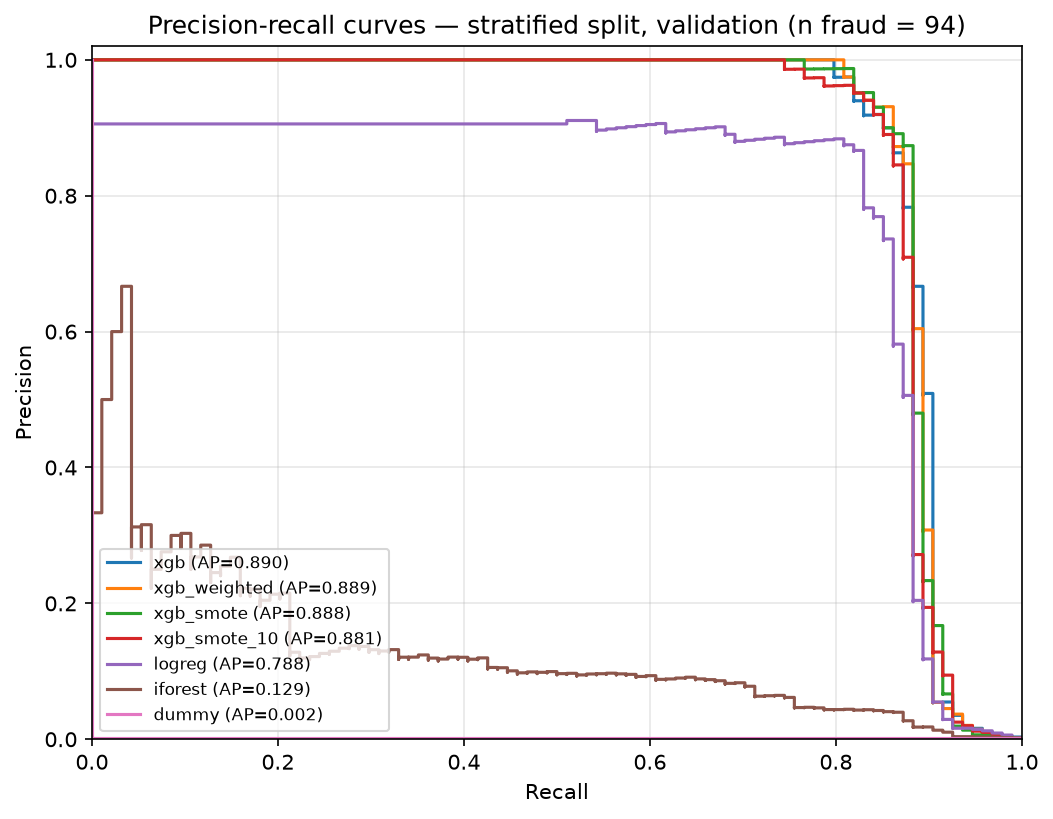
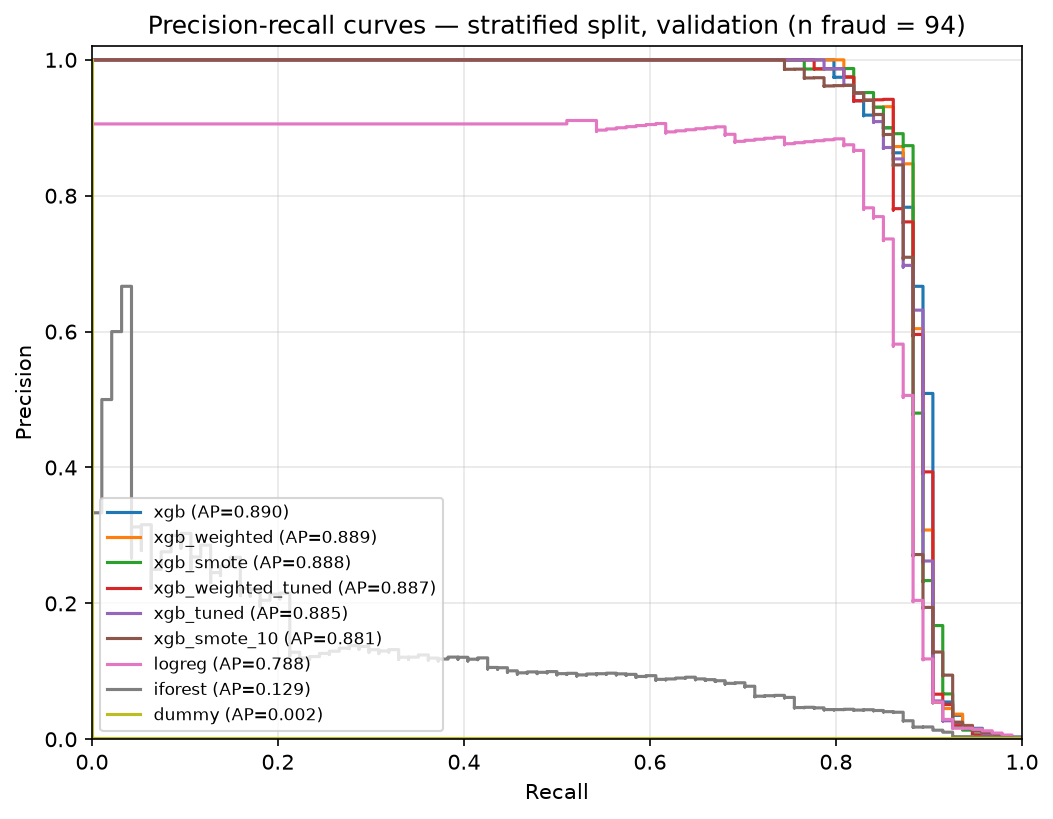
updates

diff --git a/src/fraud_detection/threshold.py b/src/fraud_detection/threshold.py
@@ -1,0 +1,115 @@
+"""Cost-based threshold selection (docs/evaluation.md, "Threshold rule").
+
+Pure functions: build a table of metrics for every candidate threshold, then pick the
+cheapest threshold that still meets the recall target. Used on valid_thr only.
+"""
+
+from __future__ import annotations
+
+from pathlib import Path
+from typing import Any
+
+import numpy as np
+import pandas as pd
+from numpy.typing import ArrayLike
+
+from fraud_detection.metrics import compute_metrics
+
+DEFAULT_GRID: np.ndarray = np.round(np.arange(0.01, 0.96, 0.01), 2)  # 0.01 ... 0.95
+SENSITIVITY_REVIEW_COSTS: tuple[float, ...] = (2.0, 5.0, 20.0)
+
+TABLE_COLUMNS = [
+    "threshold", "recall", "precision", "f1", "alerts_per_1000", "tp", "fp", "fn",
+    "fraud_amount_caught_pct", "missed_fraud_cost", "review_cost_total", "expected_cost",
+]  # fmt: skip
+
+
+def threshold_table(
+    y: ArrayLike,
+    proba: ArrayLike,
+    amounts: ArrayLike,
+    review_cost: float,
+    grid: ArrayLike = DEFAULT_GRID,
+) -> pd.DataFrame:
+    """One row per threshold, every number computed by metrics.compute_metrics.
+
+    expected_cost is split into its two parts:
+    missed_fraud_cost (sum of Amount of missed fraud) + review_cost_total (review_cost x alerts).
+    """
+    rows = []
+    for t in np.asarray(grid, dtype=float):
+        m = compute_metrics(y, proba, float(t), amounts, review_cost)
+        review_total = review_cost * (m["tp"] + m["fp"])
+        rows.append(
+            {
+                **{k: m[k] for k in TABLE_COLUMNS if k in m},
+                "review_cost_total": review_total,
+                "missed_fraud_cost": m["expected_cost"] - review_total,
+            }
+        )
+    return pd.DataFrame(rows)[TABLE_COLUMNS]
+
+
+def choose_threshold(table: pd.DataFrame, target_recall: float) -> dict[str, Any]:
+    """Pick the minimum-expected-cost threshold with recall >= target_recall.
+
+    If no threshold reaches the target, fall back to the highest-recall threshold
+    (cheapest among ties) and flag met_target=False so it gets documented.
+    Remaining ties are broken by the lower threshold.
+
+    Returns the chosen table row as a dict plus "met_target" and "rule".
+    """
+    qualifying = table[table["recall"] >= target_recall]
+    if len(qualifying):
+        pool, met, rule = qualifying, True, f"min expected_cost s.t. recall >= {target_recall}"
+    else:
+        pool = table[table["recall"] == table["recall"].max()]
+        met, rule = False, f"no threshold reaches recall {target_recall}; max recall, min cost"
+    best = pool.sort_values(["expected_cost", "threshold"]).iloc[0]
+    return {**best.to_dict(), "met_target": met, "rule": rule, "target_recall": target_recall}
+
+
+def cost_sensitivity(
+    y: ArrayLike,
+    proba: ArrayLike,
+    amounts: ArrayLike,
+    target_recall: float,
+    review_costs: tuple[float, ...] = SENSITIVITY_REVIEW_COSTS,
+    grid: ArrayLike = DEFAULT_GRID,
+) -> pd.DataFrame:
+    """Repeat the threshold choice for several review costs (the EUR 5 is an assumption)."""
+    rows = []
+    for cost in review_costs:
+        choice = choose_threshold(threshold_table(y, proba, amounts, cost, grid), target_recall)
+        rows.append({"review_cost": cost, **{k: choice[k] for k in ("met_target", *TABLE_COLUMNS)}})
+    return pd.DataFrame(rows)
+
+
+def plot_cost_curve(table: pd.DataFrame, chosen: dict[str, Any], title: str, path: Path) -> None:
+    """Expected cost (and its two parts) vs threshold, with the chosen threshold marked."""
+    import matplotlib
+
+    matplotlib.use("Agg")
+    import matplotlib.pyplot as plt
+
+    fig, (ax_cost, ax_recall) = plt.subplots(2, 1, figsize=(9, 7), sharex=True)
+    ax_cost.plot(table["threshold"], table["expected_cost"], label="expected cost", lw=2)
+    ax_cost.plot(table["threshold"], table["missed_fraud_cost"], "--", label="missed fraud €")
+    ax_cost.plot(table["threshold"], table["review_cost_total"], ":", label="review €")
+    ax_cost.set_ylabel("EUR (validation)")
+    ax_cost.set_title(title)
+    ax_cost.legend()
+
+    ax_recall.plot(table["threshold"], table["recall"], label="recall")
+    ax_recall.plot(table["threshold"], table["precision"], label="precision")
+    ax_recall.axhline(chosen["target_recall"], color="grey", ls="--", lw=1, label="target recall")
+    ax_recall.set_xlabel("Threshold")
+    ax_recall.set_ylim(0, 1.02)
+    ax_recall.legend()
+
+    for ax in (ax_cost, ax_recall):
+        ax.axvline(chosen["threshold"], color="red", lw=1)
+        ax.grid(alpha=0.3)
+    path.parent.mkdir(parents=True, exist_ok=True)
+    fig.savefig(path, dpi=150, bbox_inches="tight")
+    plt.close(fig)

diff --git a/tests/test_threshold.py b/tests/test_threshold.py
@@ -1,0 +1,99 @@
+"""Hand-computed tests for fraud_detection.threshold."""
+
+from pathlib import Path
+
+import numpy as np
+import pytest
+
+from fraud_detection.threshold import (
+    DEFAULT_GRID,
+    choose_threshold,
+    cost_sensitivity,
+    plot_cost_curve,
+    threshold_table,
+)
+
+# ---------------------------------------------------------------------------
+# Same 10 rows as test_metrics.py. Fraud amounts 100, 50, 200 (total 350); legit 10 each.
+#   y     = 1    1    1    0    0    0    0    0    0     0
+#   proba = 0.9  0.6  0.3  0.8  0.4  0.2  0.1  0.1  0.05  0.0
+#
+# review_cost = 100, grid 0.1 .. 0.9. cost = missed fraud EUR + 100 x alerts
+#   t    alerts  TP FP  missed EUR        recall  cost
+#   0.1    8      3  5   0                 1.00   800
+#   0.2    6      3  3   0                 1.00   600
+#   0.3    5      3  2   0                 1.00   500   <- cheapest with recall >= 0.85
+#   0.4    4      2  2   200               0.67   600
+#   0.5    3      2  1   200               0.67   500
+#   0.6    3      2  1   200               0.67   500
+#   0.7    2      1  1   250               0.33   450
+#   0.8    2      1  1   250               0.33   450
+#   0.9    1      1  0   250               0.33   350   <- cheapest overall (no constraint)
+# ---------------------------------------------------------------------------
+Y = [1, 1, 1, 0, 0, 0, 0, 0, 0, 0]
+P = [0.9, 0.6, 0.3, 0.8, 0.4, 0.2, 0.1, 0.1, 0.05, 0.0]
+AMOUNTS = [100, 50, 200, 10, 10, 10, 10, 10, 10, 10]
+GRID = np.round(np.arange(0.1, 1.0, 0.1), 1)
+
+
+@pytest.fixture
+def table():  # type: ignore[no-untyped-def]
+    return threshold_table(Y, P, AMOUNTS, review_cost=100, grid=GRID)
+
+
+def test_table_matches_hand_computation(table) -> None:  # type: ignore[no-untyped-def]
+    assert list(table["expected_cost"]) == [800, 600, 500, 600, 500, 500, 450, 450, 350]
+    assert list(table["tp"] + table["fp"]) == [8, 6, 5, 4, 3, 3, 2, 2, 1]
+    assert list(table["missed_fraud_cost"]) == [0, 0, 0, 200, 200, 200, 250, 250, 250]
+    assert (table["missed_fraud_cost"] + table["review_cost_total"] == table["expected_cost"]).all()
+
+
+def test_chosen_threshold_respects_recall_target(table) -> None:  # type: ignore[no-untyped-def]
+    choice = choose_threshold(table, target_recall=0.85)
+    assert choice["threshold"] == pytest.approx(0.3)
+    assert choice["expected_cost"] == 500
+    assert choice["recall"] >= 0.85
+    assert choice["met_target"] is True
+
+
+def test_without_constraint_cheapest_threshold_wins(table) -> None:  # type: ignore[no-untyped-def]
+    # proves the recall constraint is what moved the choice from 0.9 to 0.3
+    assert choose_threshold(table, target_recall=0.0)["threshold"] == pytest.approx(0.9)
+
+
+def test_fallback_when_target_unreachable() -> None:
+    # grid starts at 0.5: best recall is 2/3 (at 0.5 and 0.6, both cost 500) -> lower threshold
+    t = threshold_table(Y, P, AMOUNTS, review_cost=100, grid=[0.5, 0.6, 0.7, 0.8, 0.9])
+    choice = choose_threshold(t, target_recall=0.85)
+    assert choice["met_target"] is False
+    assert choice["threshold"] == pytest.approx(0.5)
+    assert choice["recall"] == pytest.approx(2 / 3)
+    assert "no threshold reaches" in choice["rule"]
+
+
+def test_empty_alert_threshold_is_handled() -> None:
+    # 0.95 is above every score: no alerts, all fraud money lost, no division error
+    t = threshold_table(Y, P, AMOUNTS, review_cost=5, grid=[0.95])
+    row = t.iloc[0]
+    assert row["tp"] + row["fp"] == 0
+    assert row["precision"] == 0.0 and row["recall"] == 0.0
+    assert row["expected_cost"] == 350
+    assert choose_threshold(t, target_recall=0.85)["met_target"] is False
+
+
+def test_default_grid() -> None:
+    assert DEFAULT_GRID[0] == 0.01 and DEFAULT_GRID[-1] == 0.95 and len(DEFAULT_GRID) == 95
+
+
+def test_cost_sensitivity_changes_with_review_cost() -> None:
+    s = cost_sensitivity(Y, P, AMOUNTS, target_recall=0.0, review_costs=(1.0, 100.0), grid=GRID)
+    # review_cost 1: missing a 200 fraud is never worth it -> low threshold (0.3, cost 5)
+    # review_cost 100: alerts are expensive -> high threshold (0.9, cost 350)
+    assert list(s["threshold"]) == pytest.approx([0.3, 0.9])
+    assert list(s["expected_cost"]) == [5, 350]
+
+
+def test_plot_cost_curve_writes_file(table, tmp_path: Path) -> None:  # type: ignore[no-untyped-def]
+    out = tmp_path / "cost.png"
+    plot_cost_curve(table, choose_threshold(table, 0.85), "test", out)
+    assert out.exists() and out.stat().st_size > 0

diff --git a/docs/memory.md b/docs/memory.md
@@ -24,7 +24,9 @@
   headline split and is the simplest imbalance fix (one parameter, no synthetic rows).
   SMOTE was slowest (~7.5–7.8 s vs ~4 s fit) and lowest on time. Both xgb_weighted and xgb
   go to Phase 7 tuning. Source: reports/metrics/model_comparison.md
-- Phase 7 tuned valid PR-AUC:
+- Phase 7 tuned valid PR-AUC (untuned → tuned): strat xgb_weighted 0.8888→0.8873 (−0.0015),
+  xgb 0.8899→0.8852 (−0.0047); time xgb_weighted 0.7880→0.7643 (−0.0238), xgb 0.7798→0.7807
+  (+0.0009). Tuning did not improve validation PR-AUC. Source: reports/metrics/tuning_summary.md
 - Phase 8 calibration kept? Brier before/after:
 - Phase 8 frozen threshold (strat / time):
 - PRE-REGISTRATION before Phase 9 (model, params file, calibrated, threshold, date):
@@ -96,6 +98,20 @@
 - Valid PR-AUC (strat / time): xgb 0.8899/0.7798, xgb_weighted 0.8888/0.7880,
   xgb_smote 0.8876/0.7706, xgb_smote_10 0.8811/0.7773 — source: reports/metrics/model_comparison.md
 
+## Phase 7 decisions (2026-09-24)
+- RandomizedSearchCV(n_iter=20, scoring=average_precision, random_state=42) on TRAIN only;
+  StratifiedKFold(5, shuffle) for stratified, TimeSeriesSplit(5) on Time-sorted rows for time.
+  All params prefixed "model__" (every model is a Pipeline with step "model").
+- Best params per model/split in reports/metrics/best_params_{model}_{split}.json;
+  tuned runs logged to MLflow with tags phase=7, stage=tuned; CSV model name "<model>_tuned".
+- CAVEAT: xgb_weighted scale_pos_weight computed once from full TRAIN, reused in every CV fold
+  (fold hold-out labels contribute to one count ratio). Mild; does not touch valid/test.
+- Finding: CV fold std (0.046–0.073) is far larger than any tuned-vs-untuned change.
+  Time split: TimeSeriesSplit favoured small models (200 trees, depth 3) that did worse on the
+  later validation period (drift; see Phase 4 fraud-rate shift).
+- train.py refactor: scoring/logging moved into score_and_log(); re-run of untuned
+  xgb_weighted/time reproduced Phase 6 exactly (PR-AUC 0.7880).
+
 ## Open issues
 - Time-split valid has only 57 fraud; halving for valid_cal/valid_thr leaves ~28 fraud for
   threshold selection → recall >= 0.85 estimate will be noisy (1 fraud ≈ 3.5 pp recall).
@@ -107,3 +123,5 @@
   (≤ 0.017) are small relative to 57 validation frauds (1 fraud ≈ 1.75 pp recall).
 - Phase 6: all supervised PR curves (time split) drop sharply at recall ≈ 0.75–0.80;
   the recall >= 0.85 target will likely cost low precision on the time split (Phase 8).
+- Phase 7: tuned xgb_weighted on time valid (0.7643) is BELOW logreg (0.7806). The best
+  time-split model remains UNTUNED xgb_weighted (0.7880). Final-model choice for Phase 8 pending.

diff --git a/reports/metrics/model_comparison.md b/reports/metrics/model_comparison.md
@@ -12,6 +12,8 @@ threshold and are not a fair cross-model comparison (thresholds are tuned in Pha
 | xgb | stratified | 0.8899 | 0.9807 | 0.8191 | 0.9506 | 3.1600 |
 | xgb_weighted | stratified | 0.8888 | 0.9758 | 0.8617 | 0.9310 | 4.4500 |
 | xgb_smote | stratified | 0.8876 | 0.9750 | 0.8830 | 0.8218 | 7.8000 |
+| xgb_weighted_tuned | stratified | 0.8873 | 0.9776 | 0.8617 | 0.9310 | 7.9000 |
+| xgb_tuned | stratified | 0.8852 | 0.9782 | 0.8298 | 0.9512 | 2.9500 |
 | xgb_smote_10 | stratified | 0.8811 | 0.9769 | 0.8511 | 0.9091 | 4.5900 |
 | logreg | stratified | 0.7882 | 0.9827 | 0.9043 | 0.0560 | 0.7400 |
 | iforest | stratified | 0.1291 | 0.9464 | 0.6809 | 0.0843 | 1.1800 |
@@ -21,11 +23,13 @@ threshold and are not a fair cross-model comparison (thresholds are tuned in Pha
 
 | model | split | pr_auc | roc_auc | recall@0.5 | precision@0.5 | fit_seconds |
 |---|---|---|---|---|---|---|
-| xgb_weighted | time | 0.7880 | 0.9809 | 0.7544 | 0.9149 | 4.0200 |
+| xgb_weighted | time | 0.7880 | 0.9809 | 0.7544 | 0.9149 | 6.2800 |
+| xgb_tuned | time | 0.7807 | 0.9817 | 0.6667 | 0.9500 | 1.0900 |
 | logreg | time | 0.7806 | 0.9759 | 0.8772 | 0.0342 | 0.6300 |
 | xgb | time | 0.7798 | 0.9832 | 0.6667 | 0.9744 | 3.6600 |
 | xgb_smote_10 | time | 0.7773 | 0.9690 | 0.7368 | 0.9130 | 3.7400 |
 | xgb_smote | time | 0.7706 | 0.9549 | 0.7193 | 0.8200 | 7.5100 |
+| xgb_weighted_tuned | time | 0.7643 | 0.9717 | 0.7544 | 0.6515 | 1.2200 |
 | iforest | time | 0.0231 | 0.9402 | 0.6842 | 0.0317 | 0.9100 |
 | dummy | time | 0.0010 | 0.5000 | 0.0000 | 0.0000 | 0.0100 |
 

diff --git a/docs/tasks.md b/docs/tasks.md
@@ -6,7 +6,7 @@
 - [x] Phase 4 — Stratified + time-based splits
 - [x] Phase 5 — Metrics module, baselines (dummy, logreg, iforest), MLflow
 - [x] Phase 6 — XGBoost plain / weighted / SMOTE / SMOTE-0.1 comparison
-- [ ] Phase 7 — Hyperparameter tuning (PR-AUC)
+- [x] Phase 7 — Hyperparameter tuning (PR-AUC)
 - [ ] Phase 8 — Calibration + cost-based threshold
 - [ ] Phase 9 — One-shot final test evaluation
 - [ ] Phase 10 — SHAP, model artifact, Predictor
@@ -15,4 +15,4 @@
 - [ ] Phase 13 — Render deploy, drift check, README, resume bullets
 
 ## Current phase
-Phase 6 complete (2026-09-24) — winner to be recorded by human in memory.md; then confirm Phase 7
+Phase 7 complete (2026-09-24). Phase 8 in progress: threshold.py + tests done; calibrate.py waits for human choice of final model per split

diff --git a/reports/metrics/tuning_summary.md b/reports/metrics/tuning_summary.md
@@ -1,0 +1,11 @@
+# Tuning summary — validation PR-AUC, tuned vs untuned
+
+Generated by `python -m fraud_detection.tune`. CV on TRAIN only; the refitted best
+model is scored once on VALIDATION. Test set not used.
+
+| model | split | cv | cv PR-AUC (mean ± std) | valid untuned | valid tuned | change |
+|---|---|---|---|---|---|---|
+| xgb_weighted | stratified | StratifiedKFold | 0.8482 ± 0.0671 | 0.8888 | 0.8873 | -0.0015 |
+| xgb | stratified | StratifiedKFold | 0.8433 ± 0.0727 | 0.8899 | 0.8852 | -0.0047 |
+| xgb_weighted | time | TimeSeriesSplit | 0.8037 ± 0.0457 | 0.7880 | 0.7643 | -0.0238 |
+| xgb | time | TimeSeriesSplit | 0.8034 ± 0.0541 | 0.7798 | 0.7807 | +0.0009 |
